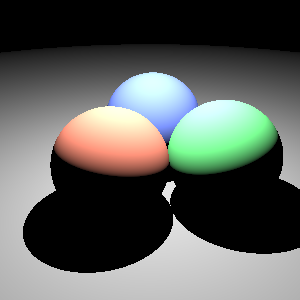
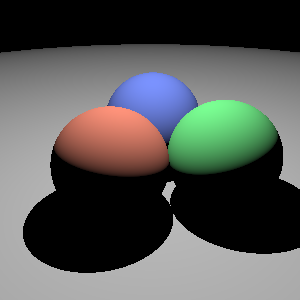
Remove Light variance through distance

diff --git a/python_to_do.py b/python_to_do.py
@@ -226,8 +226,7 @@ def trace(ray, objects, lights):
         else:
             lightRay = Ray(intersect.p, (light.o-intersect.p).normal())
             if object_ray(lightRay, objects, intersect.obj).d == -1:
-                lightIntensity = 500.0/(4*pi*(light.o-intersect.p).magnitude()**2) * light.intensity
-                col += intersect.obj.color * max(intersect.n.normal().dot((light.o - intersect.p).normal()*lightIntensity), AMBIENT)
+                col += intersect.obj.color * intersect.n.normal().dot((light.o - intersect.p).normal()*light.intensity)
             else:
                 pass
                 # 물체 위 그림자
@@ -270,6 +269,7 @@ def main():
     """
     LOAD FROM XML BEGINS
     """
+    print("LOADING INFORMATION FROM XML...")
     
     imgSize=np.array(root.findtext('image').split()).astype(np.int)
     # imgSize[0]: width
@@ -323,8 +323,6 @@ def main():
             objects.append(Box(npToVector3(np.array(c.findtext('minPt').split()).astype(np.float)),
                                 npToVector3(np.array(c.findtext('maxPt').split()).astype(np.float)),
                                 shaders[shade_name]))
-    for obj in objects:
-        print(obj)
 
     # Set values from <light>
     lights = []
@@ -334,24 +332,20 @@ def main():
         intensity = np.array(c.findtext('intensity').split()).astype(np.float)[0]
         light_obj = Light(Vector3(light_position[0], light_position[1], light_position[2]), intensity)
         lights.append(light_obj)
-    
-    for light in lights:
-        print(light)
+
 
     """
     LOAD FROM XML ENDS
     """
-
-    # TODO
-    # multiple lights
-    lightSource = Light(Vector3(0,5,0), 1)
-
+    print("LOAD COMPLETE.")
+    print("RENDERRING....")
     img_width = imgSize[0]
     img_height = imgSize[1]
 
     img = Image.new("RGB",(img_width,img_height))
     cameraPos = viewPoint
 
+    # Calculation for Camera
     # get w,u,v Vectors
     d = viewDir
     w = d * -1
@@ -367,9 +361,11 @@ def main():
             ray = Ray(cameraPos, dirr_vec.normal())
             col = trace(ray, objects, lights)
             img.putpixel((x,img_height-1-y),gammaCorrection(col,GAMMA_CORRECTION))
-    img.save(sys.argv[1] + '.png')
+    print("RENDERING COMPLETE!")
+    save_loc = sys.argv[1] + '.png'
+    img.save(save_loc)
+    print("SAVED AT", save_loc)
 
-    code.interact(local=dict(globals(), **locals()))
 
 if __name__=="__main__":
     main()
